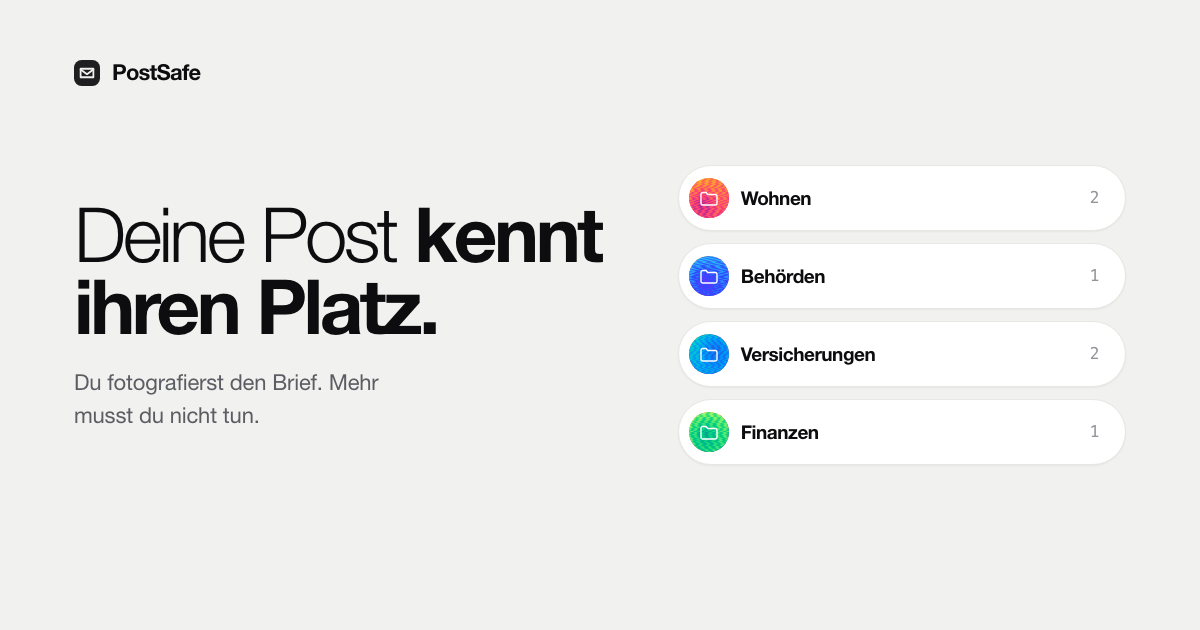
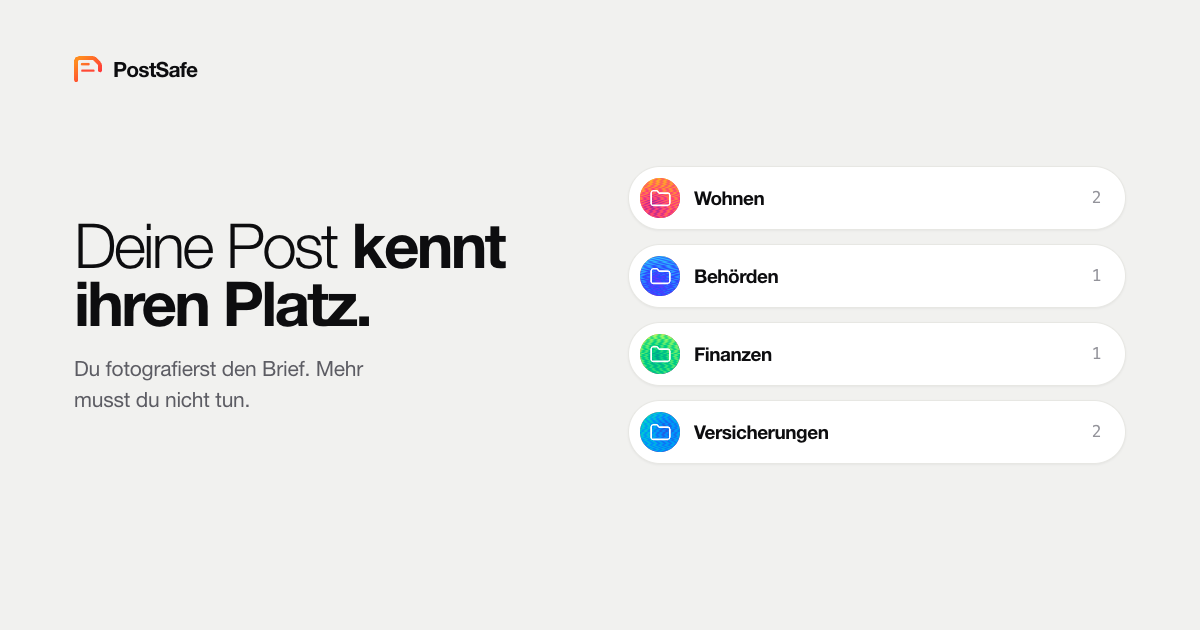
Neues Zeichen: Reiter-Kachel, Marke in Kopf und Fuss, Teilen-Bild
Josefs neue App-Kacheln fuer hell und dunkel sind eingesetzt.

favicon.svg ist jetzt eine einzige Datei, die den Wechsel selbst mitbringt: eine
Regel im Inneren stellt den Hintergrund um — weiss im hellen Modus, der dunkle
Verlauf im dunklen. Damit ist nur eine Datei zu pflegen, und jeder Browser nimmt
die passende Fassung.

In Kopf- und Fusszeile steht der blosse Strichzug aus der Kachel, im Verlauf von
Orange nach Rot, ohne Hintergrund (Josefs Wahl aus vier Vorschlaegen). Kopf 24
px, Fuss 22 px. Der Radius am alten Kachelzeichen ist raus — ohne Hintergrund
gibt es nichts zu runden.

Das Teilen-Bild trug noch das alte Briefzeichen und die alte Ordnerreihenfolge
mit Versicherungen vor Finanzen. Es ist aus denselben Bausteinen wie die Seite
neu gebaut — style.css, home.css und moire.js — damit es nicht wieder
auseinanderdriftet. Die Adresse traegt ein ?v=9, sonst zeigen WhatsApp und
Konsorten weiter ihre zwischengespeicherte Fassung.

diff --git a/index.html b/index.html
@@ -15,13 +15,13 @@
 <meta property="og:url" content="https://postsafe.eu/">
 <meta property="og:title" content="PostSafe — Deine Post kennt ihren Platz">
 <meta property="og:description" content="Du fotografierst den Brief. PostSafe liest ihn, legt ihn in den passenden Ordner und erinnert an Fristen. Die Briefe bleiben in deiner eigenen iCloud.">
-<meta property="og:image" content="https://postsafe.eu/og.png">
+<meta property="og:image" content="https://postsafe.eu/og.png?v=9">
 <meta property="og:image:width" content="1200">
 <meta property="og:image:height" content="630">
 <meta property="og:image:alt" content="PostSafe — Deine Post kennt ihren Platz.">
 <meta name="twitter:card" content="summary_large_image">
-<link rel="stylesheet" href="style.css?v=8">
-<link rel="stylesheet" href="home.css?v=8">
+<link rel="stylesheet" href="style.css?v=9">
+<link rel="stylesheet" href="home.css?v=9">
 </head>
 <body>
 
@@ -30,11 +30,7 @@
 <header class="site-head" id="top">
   <div class="site-head__in">
     <a class="brand" href="index.html">
-      <svg class="brand__mark" width="22" height="22" viewBox="0 0 22 22" aria-hidden="true" focusable="false">
-        <rect width="22" height="22" rx="6.5" fill="currentColor" opacity=".92"/>
-        <path d="M5.6 7.4h10.8v7.2H5.6z" fill="none" stroke="var(--paper)" stroke-width="1.5" stroke-linejoin="round"/>
-        <path d="M5.6 8.1l5.4 3.9 5.4-3.9" fill="none" stroke="var(--paper)" stroke-width="1.5" stroke-linecap="round" stroke-linejoin="round"/>
-      </svg>
+      <svg class="brand__mark" width="24" height="22.4" viewBox="207 183 650 608" aria-hidden="true" focusable="false"><linearGradient id="psz-kopf" gradientUnits="userSpaceOnUse" x1="354.7" y1="266.1" x2="669.3" y2="629.9"><stop offset="0" stop-color="#ff8b1f"/><stop offset="1" stop-color="#ff2d3e"/></linearGradient><g transform="translate(532 570) scale(1.3) translate(-512 -512)" fill="none" stroke-linecap="round" stroke-linejoin="round"><path d="M298 646 L298 301.2 Q298 280 313 265 Q328 250 349.2 250 L588 250 Q616 250 635.8 269.8 L706.2 340.2 Q726 360 726 388 L726 470" stroke="url(#psz-kopf)" stroke-width="72"/><path d="M410 476 L610 476" stroke="#ff4935" stroke-width="40"/><path d="M406 360 L522 360" stroke="url(#psz-kopf)" stroke-width="44"/></g></svg>
       PostSafe
     </a>
     <a class="head-web ps-chip" href="web.html">
@@ -420,11 +416,7 @@
   <div class="site-foot__in">
     <div>
       <p class="site-foot__brand">
-        <svg class="brand__mark" width="20" height="20" viewBox="0 0 22 22" aria-hidden="true">
-          <rect width="22" height="22" rx="6.5" fill="currentColor" opacity=".92"/>
-          <path d="M5.6 7.4h10.8v7.2H5.6z" fill="none" stroke="var(--paper)" stroke-width="1.5" stroke-linejoin="round"/>
-          <path d="M5.6 8.1l5.4 3.9 5.4-3.9" fill="none" stroke="var(--paper)" stroke-width="1.5" stroke-linecap="round" stroke-linejoin="round"/>
-        </svg>
+        <svg class="brand__mark" width="22" height="20.6" viewBox="207 183 650 608" aria-hidden="true" focusable="false"><linearGradient id="psz-fuss" gradientUnits="userSpaceOnUse" x1="354.7" y1="266.1" x2="669.3" y2="629.9"><stop offset="0" stop-color="#ff8b1f"/><stop offset="1" stop-color="#ff2d3e"/></linearGradient><g transform="translate(532 570) scale(1.3) translate(-512 -512)" fill="none" stroke-linecap="round" stroke-linejoin="round"><path d="M298 646 L298 301.2 Q298 280 313 265 Q328 250 349.2 250 L588 250 Q616 250 635.8 269.8 L706.2 340.2 Q726 360 726 388 L726 470" stroke="url(#psz-fuss)" stroke-width="72"/><path d="M410 476 L610 476" stroke="#ff4935" stroke-width="40"/><path d="M406 360 L522 360" stroke="url(#psz-fuss)" stroke-width="44"/></g></svg>
         PostSafe
       </p>
       <p class="site-foot__note">Post ordnen, ohne dass jemand mitliest.</p>
@@ -441,7 +433,7 @@
   </div>
 </footer>
 
-<script src="home.js?v=8" defer></script>
-<script src="moire.js?v=8" defer></script>
+<script src="home.js?v=9" defer></script>
+<script src="moire.js?v=9" defer></script>
 </body>
 </html>

diff --git a/web.html b/web.html
@@ -9,8 +9,8 @@
 <meta name="theme-color" content="#070707" media="(prefers-color-scheme: dark)">
 <link rel="icon" href="favicon.svg" type="image/svg+xml">
 <link rel="canonical" href="https://postsafe.eu/web.html">
-<link rel="stylesheet" href="style.css?v=8">
-<link rel="stylesheet" href="home.css?v=8">
+<link rel="stylesheet" href="style.css?v=9">
+<link rel="stylesheet" href="home.css?v=9">
 </head>
 <body>
 
@@ -19,11 +19,7 @@
 <header class="site-head">
   <div class="site-head__in">
     <a class="brand" href="index.html">
-      <svg class="brand__mark" width="22" height="22" viewBox="0 0 22 22" aria-hidden="true" focusable="false">
-        <rect width="22" height="22" rx="6.5" fill="currentColor" opacity=".92"/>
-        <path d="M5.6 7.4h10.8v7.2H5.6z" fill="none" stroke="var(--paper)" stroke-width="1.5" stroke-linejoin="round"/>
-        <path d="M5.6 8.1l5.4 3.9 5.4-3.9" fill="none" stroke="var(--paper)" stroke-width="1.5" stroke-linecap="round" stroke-linejoin="round"/>
-      </svg>
+      <svg class="brand__mark" width="24" height="22.4" viewBox="207 183 650 608" aria-hidden="true" focusable="false"><linearGradient id="psz-kopf" gradientUnits="userSpaceOnUse" x1="354.7" y1="266.1" x2="669.3" y2="629.9"><stop offset="0" stop-color="#ff8b1f"/><stop offset="1" stop-color="#ff2d3e"/></linearGradient><g transform="translate(532 570) scale(1.3) translate(-512 -512)" fill="none" stroke-linecap="round" stroke-linejoin="round"><path d="M298 646 L298 301.2 Q298 280 313 265 Q328 250 349.2 250 L588 250 Q616 250 635.8 269.8 L706.2 340.2 Q726 360 726 388 L726 470" stroke="url(#psz-kopf)" stroke-width="72"/><path d="M410 476 L610 476" stroke="#ff4935" stroke-width="40"/><path d="M406 360 L522 360" stroke="url(#psz-kopf)" stroke-width="44"/></g></svg>
       PostSafe
     </a>
     <a class="head-web ps-chip is-here" href="web.html" aria-current="page">
@@ -136,11 +132,7 @@
   <div class="site-foot__in">
     <div>
       <p class="site-foot__brand">
-        <svg class="brand__mark" width="20" height="20" viewBox="0 0 22 22" aria-hidden="true">
-          <rect width="22" height="22" rx="6.5" fill="currentColor" opacity=".92"/>
-          <path d="M5.6 7.4h10.8v7.2H5.6z" fill="none" stroke="var(--paper)" stroke-width="1.5" stroke-linejoin="round"/>
-          <path d="M5.6 8.1l5.4 3.9 5.4-3.9" fill="none" stroke="var(--paper)" stroke-width="1.5" stroke-linecap="round" stroke-linejoin="round"/>
-        </svg>
+        <svg class="brand__mark" width="22" height="20.6" viewBox="207 183 650 608" aria-hidden="true" focusable="false"><linearGradient id="psz-fuss" gradientUnits="userSpaceOnUse" x1="354.7" y1="266.1" x2="669.3" y2="629.9"><stop offset="0" stop-color="#ff8b1f"/><stop offset="1" stop-color="#ff2d3e"/></linearGradient><g transform="translate(532 570) scale(1.3) translate(-512 -512)" fill="none" stroke-linecap="round" stroke-linejoin="round"><path d="M298 646 L298 301.2 Q298 280 313 265 Q328 250 349.2 250 L588 250 Q616 250 635.8 269.8 L706.2 340.2 Q726 360 726 388 L726 470" stroke="url(#psz-fuss)" stroke-width="72"/><path d="M410 476 L610 476" stroke="#ff4935" stroke-width="40"/><path d="M406 360 L522 360" stroke="url(#psz-fuss)" stroke-width="44"/></g></svg>
         PostSafe
       </p>
       <p class="site-foot__note">Post ordnen, ohne dass jemand mitliest.</p>
@@ -157,6 +149,6 @@
   </div>
 </footer>
 
-<script src="moire.js?v=8" defer></script>
+<script src="moire.js?v=9" defer></script>
 </body>
 </html>

diff --git a/agb.html b/agb.html
@@ -8,18 +8,14 @@
 <meta name="theme-color" content="#F1F1EF" media="(prefers-color-scheme: light)">
 <meta name="theme-color" content="#070707" media="(prefers-color-scheme: dark)">
 <link rel="icon" href="favicon.svg" type="image/svg+xml">
-<link rel="stylesheet" href="style.css?v=8">
+<link rel="stylesheet" href="style.css?v=9">
 </head>
 <body>
 
 <header class="site-head">
   <div class="site-head__in">
     <a class="brand" href="index.html">
-      <svg class="brand__mark" width="22" height="22" viewBox="0 0 22 22" aria-hidden="true" focusable="false">
-        <rect width="22" height="22" rx="6.5" fill="currentColor" opacity=".92"/>
-        <path d="M5.6 7.4h10.8v7.2H5.6z" fill="none" stroke="var(--paper)" stroke-width="1.5" stroke-linejoin="round"/>
-        <path d="M5.6 8.1l5.4 3.9 5.4-3.9" fill="none" stroke="var(--paper)" stroke-width="1.5" stroke-linecap="round" stroke-linejoin="round"/>
-      </svg>
+      <svg class="brand__mark" width="24" height="22.4" viewBox="207 183 650 608" aria-hidden="true" focusable="false"><linearGradient id="psz-kopf" gradientUnits="userSpaceOnUse" x1="354.7" y1="266.1" x2="669.3" y2="629.9"><stop offset="0" stop-color="#ff8b1f"/><stop offset="1" stop-color="#ff2d3e"/></linearGradient><g transform="translate(532 570) scale(1.3) translate(-512 -512)" fill="none" stroke-linecap="round" stroke-linejoin="round"><path d="M298 646 L298 301.2 Q298 280 313 265 Q328 250 349.2 250 L588 250 Q616 250 635.8 269.8 L706.2 340.2 Q726 360 726 388 L726 470" stroke="url(#psz-kopf)" stroke-width="72"/><path d="M410 476 L610 476" stroke="#ff4935" stroke-width="40"/><path d="M406 360 L522 360" stroke="url(#psz-kopf)" stroke-width="44"/></g></svg>
       PostSafe
     </a>
     <a class="head-web ps-chip" href="web.html">
@@ -270,11 +266,7 @@
   <div class="site-foot__in">
     <div>
       <p class="site-foot__brand">
-        <svg class="brand__mark" width="20" height="20" viewBox="0 0 22 22" aria-hidden="true">
-          <rect width="22" height="22" rx="6.5" fill="currentColor" opacity=".92"/>
-          <path d="M5.6 7.4h10.8v7.2H5.6z" fill="none" stroke="var(--paper)" stroke-width="1.5" stroke-linejoin="round"/>
-          <path d="M5.6 8.1l5.4 3.9 5.4-3.9" fill="none" stroke="var(--paper)" stroke-width="1.5" stroke-linecap="round" stroke-linejoin="round"/>
-        </svg>
+        <svg class="brand__mark" width="22" height="20.6" viewBox="207 183 650 608" aria-hidden="true" focusable="false"><linearGradient id="psz-fuss" gradientUnits="userSpaceOnUse" x1="354.7" y1="266.1" x2="669.3" y2="629.9"><stop offset="0" stop-color="#ff8b1f"/><stop offset="1" stop-color="#ff2d3e"/></linearGradient><g transform="translate(532 570) scale(1.3) translate(-512 -512)" fill="none" stroke-linecap="round" stroke-linejoin="round"><path d="M298 646 L298 301.2 Q298 280 313 265 Q328 250 349.2 250 L588 250 Q616 250 635.8 269.8 L706.2 340.2 Q726 360 726 388 L726 470" stroke="url(#psz-fuss)" stroke-width="72"/><path d="M410 476 L610 476" stroke="#ff4935" stroke-width="40"/><path d="M406 360 L522 360" stroke="url(#psz-fuss)" stroke-width="44"/></g></svg>
         PostSafe
       </p>
       <p class="site-foot__note">Post ordnen, ohne dass jemand mitliest.</p>

diff --git a/datenschutz.html b/datenschutz.html
@@ -8,18 +8,14 @@
 <meta name="theme-color" content="#F1F1EF" media="(prefers-color-scheme: light)">
 <meta name="theme-color" content="#070707" media="(prefers-color-scheme: dark)">
 <link rel="icon" href="favicon.svg" type="image/svg+xml">
-<link rel="stylesheet" href="style.css?v=8">
+<link rel="stylesheet" href="style.css?v=9">
 </head>
 <body>
 
 <header class="site-head">
   <div class="site-head__in">
     <a class="brand" href="index.html">
-      <svg class="brand__mark" width="22" height="22" viewBox="0 0 22 22" aria-hidden="true" focusable="false">
-        <rect width="22" height="22" rx="6.5" fill="currentColor" opacity=".92"/>
-        <path d="M5.6 7.4h10.8v7.2H5.6z" fill="none" stroke="var(--paper)" stroke-width="1.5" stroke-linejoin="round"/>
-        <path d="M5.6 8.1l5.4 3.9 5.4-3.9" fill="none" stroke="var(--paper)" stroke-width="1.5" stroke-linecap="round" stroke-linejoin="round"/>
-      </svg>
+      <svg class="brand__mark" width="24" height="22.4" viewBox="207 183 650 608" aria-hidden="true" focusable="false"><linearGradient id="psz-kopf" gradientUnits="userSpaceOnUse" x1="354.7" y1="266.1" x2="669.3" y2="629.9"><stop offset="0" stop-color="#ff8b1f"/><stop offset="1" stop-color="#ff2d3e"/></linearGradient><g transform="translate(532 570) scale(1.3) translate(-512 -512)" fill="none" stroke-linecap="round" stroke-linejoin="round"><path d="M298 646 L298 301.2 Q298 280 313 265 Q328 250 349.2 250 L588 250 Q616 250 635.8 269.8 L706.2 340.2 Q726 360 726 388 L726 470" stroke="url(#psz-kopf)" stroke-width="72"/><path d="M410 476 L610 476" stroke="#ff4935" stroke-width="40"/><path d="M406 360 L522 360" stroke="url(#psz-kopf)" stroke-width="44"/></g></svg>
       PostSafe
     </a>
     <a class="head-web ps-chip" href="web.html">
@@ -335,11 +331,7 @@
   <div class="site-foot__in">
     <div>
       <p class="site-foot__brand">
-        <svg class="brand__mark" width="20" height="20" viewBox="0 0 22 22" aria-hidden="true">
-          <rect width="22" height="22" rx="6.5" fill="currentColor" opacity=".92"/>
-          <path d="M5.6 7.4h10.8v7.2H5.6z" fill="none" stroke="var(--paper)" stroke-width="1.5" stroke-linejoin="round"/>
-          <path d="M5.6 8.1l5.4 3.9 5.4-3.9" fill="none" stroke="var(--paper)" stroke-width="1.5" stroke-linecap="round" stroke-linejoin="round"/>
-        </svg>
+        <svg class="brand__mark" width="22" height="20.6" viewBox="207 183 650 608" aria-hidden="true" focusable="false"><linearGradient id="psz-fuss" gradientUnits="userSpaceOnUse" x1="354.7" y1="266.1" x2="669.3" y2="629.9"><stop offset="0" stop-color="#ff8b1f"/><stop offset="1" stop-color="#ff2d3e"/></linearGradient><g transform="translate(532 570) scale(1.3) translate(-512 -512)" fill="none" stroke-linecap="round" stroke-linejoin="round"><path d="M298 646 L298 301.2 Q298 280 313 265 Q328 250 349.2 250 L588 250 Q616 250 635.8 269.8 L706.2 340.2 Q726 360 726 388 L726 470" stroke="url(#psz-fuss)" stroke-width="72"/><path d="M410 476 L610 476" stroke="#ff4935" stroke-width="40"/><path d="M406 360 L522 360" stroke="url(#psz-fuss)" stroke-width="44"/></g></svg>
         PostSafe
       </p>
       <p class="site-foot__note">Post ordnen, ohne dass jemand mitliest.</p>

diff --git a/impressum.html b/impressum.html
@@ -8,18 +8,14 @@
 <meta name="theme-color" content="#F1F1EF" media="(prefers-color-scheme: light)">
 <meta name="theme-color" content="#070707" media="(prefers-color-scheme: dark)">
 <link rel="icon" href="favicon.svg" type="image/svg+xml">
-<link rel="stylesheet" href="style.css?v=8">
+<link rel="stylesheet" href="style.css?v=9">
 </head>
 <body>
 
 <header class="site-head">
   <div class="site-head__in">
     <a class="brand" href="index.html">
-      <svg class="brand__mark" width="22" height="22" viewBox="0 0 22 22" aria-hidden="true" focusable="false">
-        <rect width="22" height="22" rx="6.5" fill="currentColor" opacity=".92"/>
-        <path d="M5.6 7.4h10.8v7.2H5.6z" fill="none" stroke="var(--paper)" stroke-width="1.5" stroke-linejoin="round"/>
-        <path d="M5.6 8.1l5.4 3.9 5.4-3.9" fill="none" stroke="var(--paper)" stroke-width="1.5" stroke-linecap="round" stroke-linejoin="round"/>
-      </svg>
+      <svg class="brand__mark" width="24" height="22.4" viewBox="207 183 650 608" aria-hidden="true" focusable="false"><linearGradient id="psz-kopf" gradientUnits="userSpaceOnUse" x1="354.7" y1="266.1" x2="669.3" y2="629.9"><stop offset="0" stop-color="#ff8b1f"/><stop offset="1" stop-color="#ff2d3e"/></linearGradient><g transform="translate(532 570) scale(1.3) translate(-512 -512)" fill="none" stroke-linecap="round" stroke-linejoin="round"><path d="M298 646 L298 301.2 Q298 280 313 265 Q328 250 349.2 250 L588 250 Q616 250 635.8 269.8 L706.2 340.2 Q726 360 726 388 L726 470" stroke="url(#psz-kopf)" stroke-width="72"/><path d="M410 476 L610 476" stroke="#ff4935" stroke-width="40"/><path d="M406 360 L522 360" stroke="url(#psz-kopf)" stroke-width="44"/></g></svg>
       PostSafe
     </a>
     <a class="head-web ps-chip" href="web.html">
@@ -100,11 +96,7 @@
   <div class="site-foot__in">
     <div>
       <p class="site-foot__brand">
-        <svg class="brand__mark" width="20" height="20" viewBox="0 0 22 22" aria-hidden="true">
-          <rect width="22" height="22" rx="6.5" fill="currentColor" opacity=".92"/>
-          <path d="M5.6 7.4h10.8v7.2H5.6z" fill="none" stroke="var(--paper)" stroke-width="1.5" stroke-linejoin="round"/>
-          <path d="M5.6 8.1l5.4 3.9 5.4-3.9" fill="none" stroke="var(--paper)" stroke-width="1.5" stroke-linecap="round" stroke-linejoin="round"/>
-        </svg>
+        <svg class="brand__mark" width="22" height="20.6" viewBox="207 183 650 608" aria-hidden="true" focusable="false"><linearGradient id="psz-fuss" gradientUnits="userSpaceOnUse" x1="354.7" y1="266.1" x2="669.3" y2="629.9"><stop offset="0" stop-color="#ff8b1f"/><stop offset="1" stop-color="#ff2d3e"/></linearGradient><g transform="translate(532 570) scale(1.3) translate(-512 -512)" fill="none" stroke-linecap="round" stroke-linejoin="round"><path d="M298 646 L298 301.2 Q298 280 313 265 Q328 250 349.2 250 L588 250 Q616 250 635.8 269.8 L706.2 340.2 Q726 360 726 388 L726 470" stroke="url(#psz-fuss)" stroke-width="72"/><path d="M410 476 L610 476" stroke="#ff4935" stroke-width="40"/><path d="M406 360 L522 360" stroke="url(#psz-fuss)" stroke-width="44"/></g></svg>
         PostSafe
       </p>
       <p class="site-foot__note">Post ordnen, ohne dass jemand mitliest.</p>

diff --git a/style.css b/style.css
@@ -264,7 +264,9 @@ img, svg { max-width: 100%; }
   min-height: 44px;
 }
 
-.brand__mark { flex: none; border-radius: 8px; }
+/* Das Zeichen ist jetzt der blosse Strichzug aus der App-Kachel,
+   ohne Hintergrund — deshalb auch kein Radius mehr. */
+.brand__mark { flex: none; }
 
 .site-nav { display: none; gap: 26px; }
 
